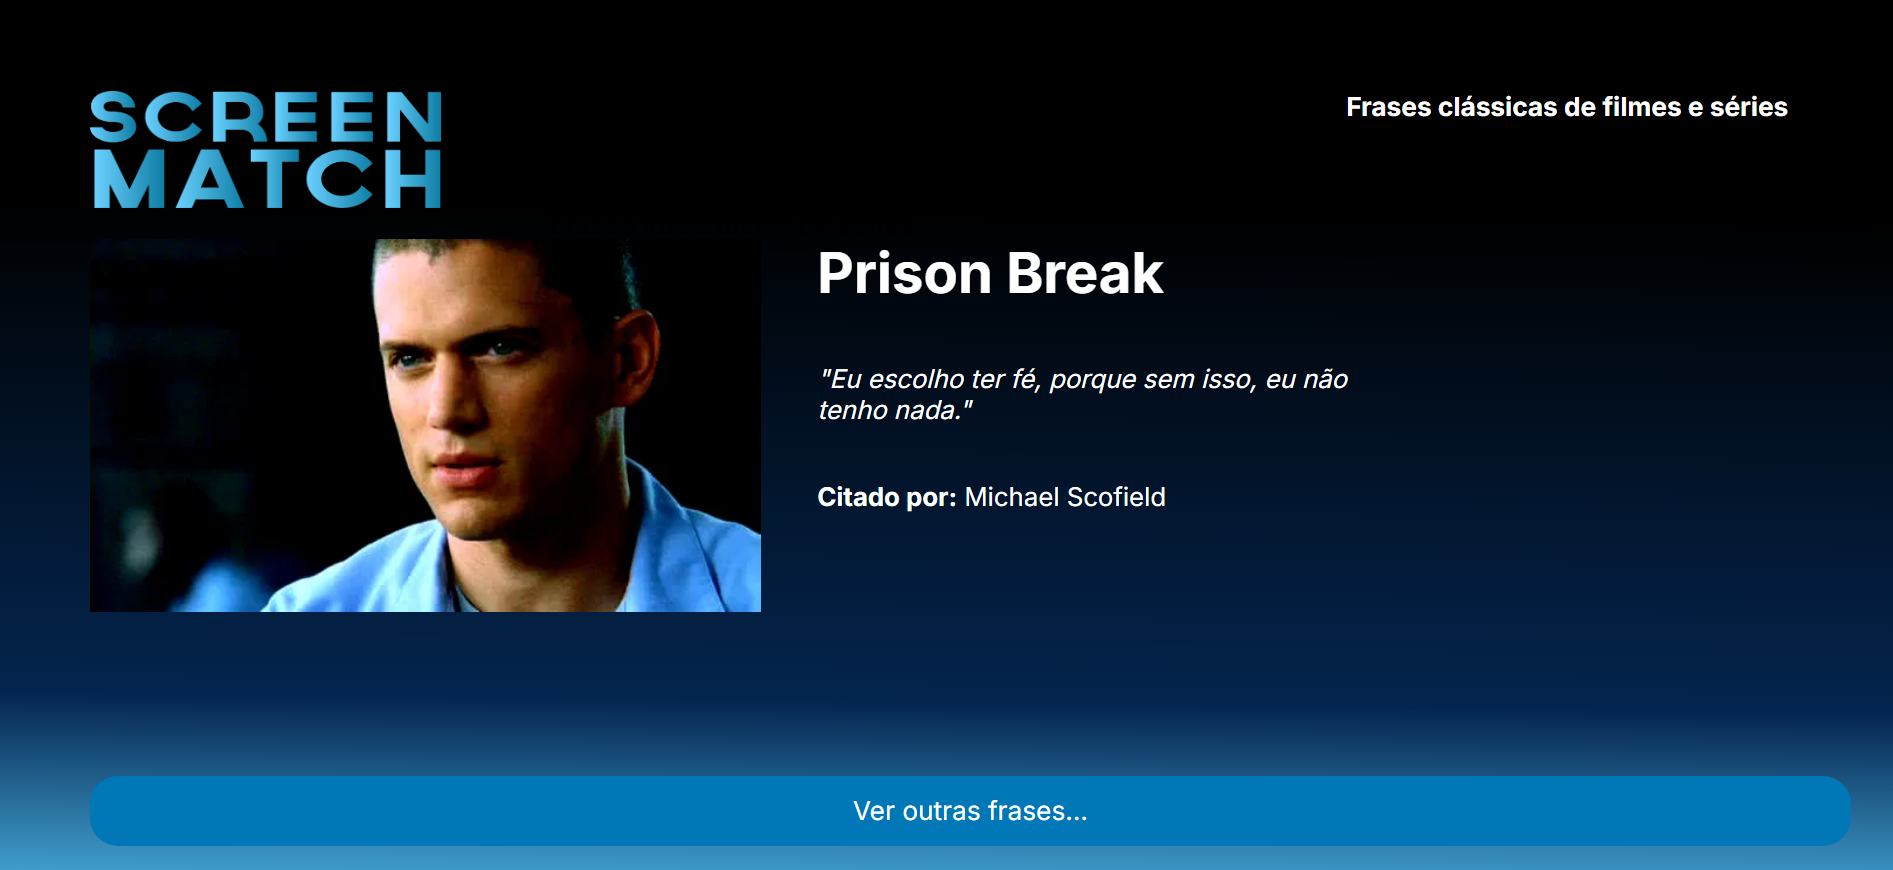
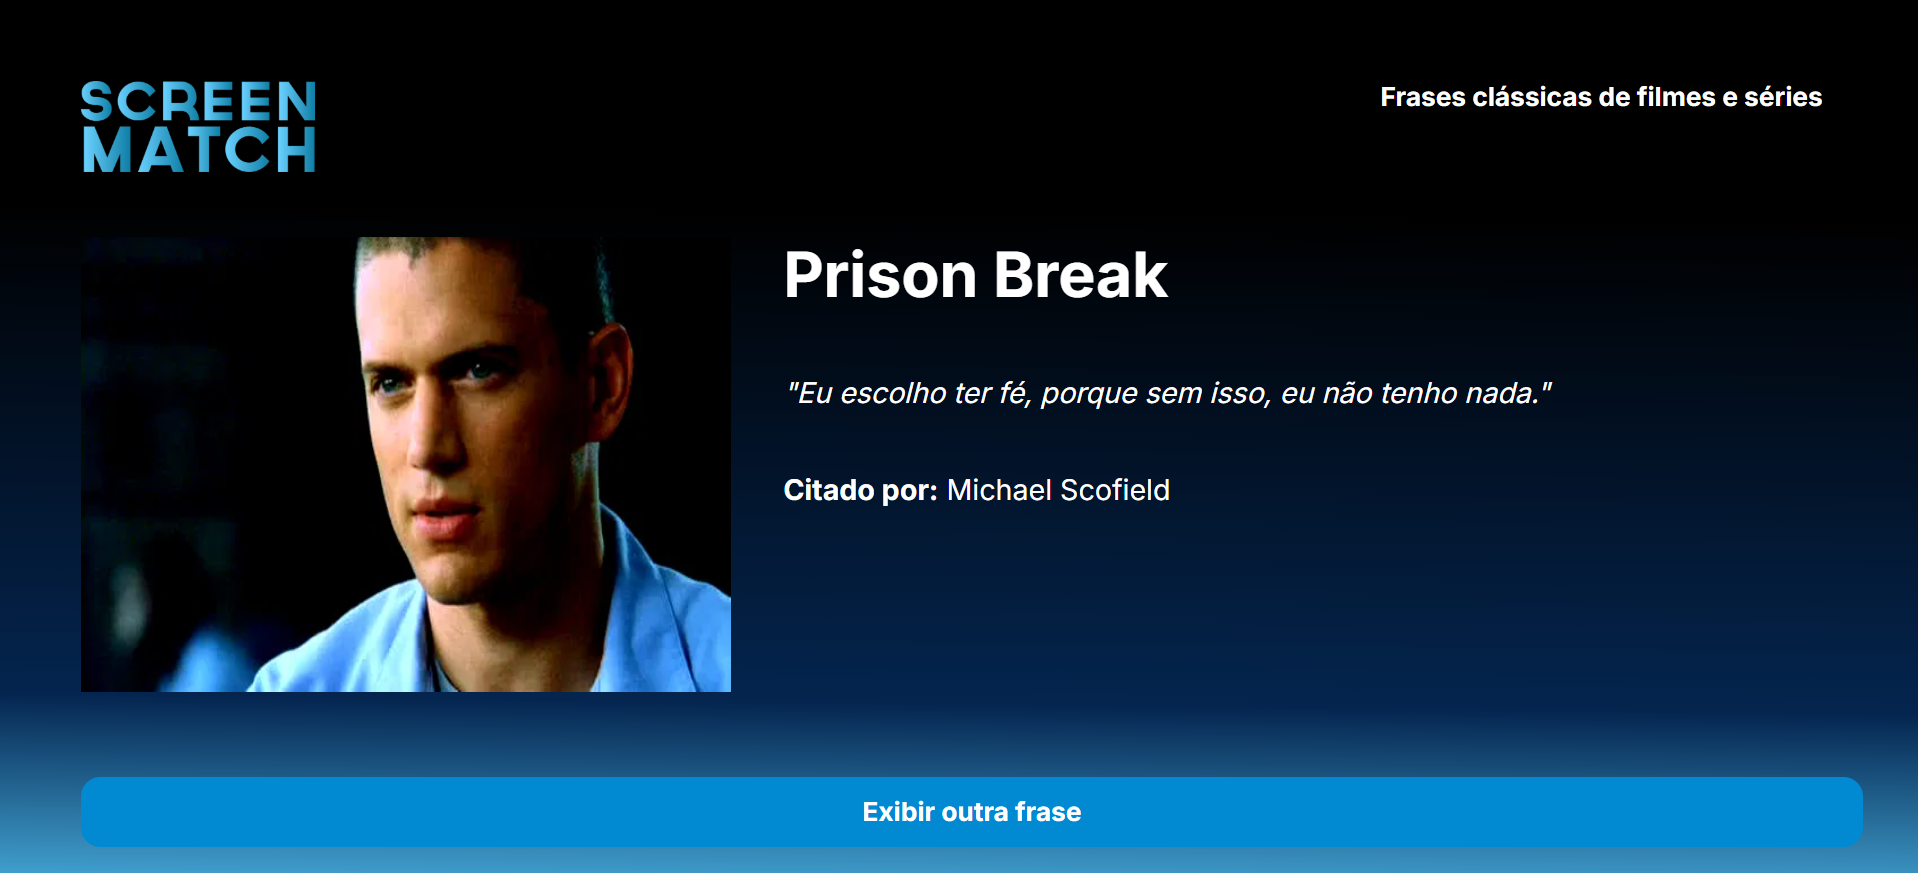
Alteração do css e img de exemplo

diff --git a/frases-front-end/style.css b/frases-front-end/style.css
@@ -4,24 +4,15 @@
 }
 
 body {
-  background: linear-gradient(180.61deg,
-          #000000 25.16%,
-          #04254f 80%,
-          #409ecd 100%);
+  background: linear-gradient(180.61deg, #000000 25.16%,#04254f 80%,#409ecd 100%);
   background-repeat: no-repeat;
   background-size: cover;
-  padding: 5em;
+  padding: 4em;
   height: 100vh;
   min-height: 100vh;
   font-family: 'Inter', sans-serif;
   color: white;
   box-sizing: border-box;
-}
-
-main {
-  align-items: center;
-  height: 100%;
-  width: 150vh;
 }
 
 .cabecalho {
@@ -42,17 +33,21 @@ main {
 }
 
 .cabecalho__logo img {
-  width: 300px;
-  height: 100px;
+  width: 180px;
+  height: 70px;
 }
 
 .ficha img {
-  gap: 1em;
-  margin: 0 3em 2em 0;
+  height: 350px;
+  width: 500px;
 }
 
 .ficha-descricao {
   display: flex;
+  flex-wrap: nowrap;
+  gap: 40px;
+
+  padding: 50px 0px 100px 0px;
 }
 
 .ficha-descricao div {
@@ -61,7 +56,7 @@ main {
   gap: 3em;
 }
 
-.text{
+.text {
   text-align: center;
   color:  #000000 25.16%;
   font-size: 2.5vh;
@@ -70,7 +65,7 @@ main {
 
 .title{
   text-align: center;
-  color: #00000080;
+  color: #FFFFFF;
   font-size: 3vh;
 }
 
@@ -83,14 +78,14 @@ p {
 }
 
 .btn-sortear{
-  border-radius: 24px;
+  border-radius: 15px;
   border: none;
   outline: none;
   width: 10%;
   font-size: 24px;
   padding: 0 1em;
   margin-bottom: 1em;
-  background-color: #0077b6;
+  background-color: #0189d2;
   bottom: 0;
   color: white;
   cursor: pointer;
@@ -100,10 +95,15 @@ p {
   text-align: center;
   transition: .3s;
   width: 90%;
+  font-weight: bold;
+}
+
+.btn-sortear:active {
+  background-color: #014c74;
+  font-weight: bold;
 }
 
 @media screen and (max-width: 900px) {
-
   .ficha-descricao {
       display: block;
   }

diff --git a/frases-front-end/index.html b/frases-front-end/index.html
@@ -19,11 +19,10 @@
       <h1>Frases clássicas de filmes e séries</h1>
   </header>
   <main class="ficha">
-      <h1 class="title">Frases imperdíveis de séries...</h1>
       <div class="ficha-descricao" id="ficha-descricao">
         <!-- As informações serão inseridas aqui -->        
       </div>
-      <div class="btn-sortear">Ver outras frases...</div>
+      <div class="btn-sortear">Exibir outra frase</div>
   </main>
   <script src="./scripts/index.js" type="module"></script>  
 </body>
